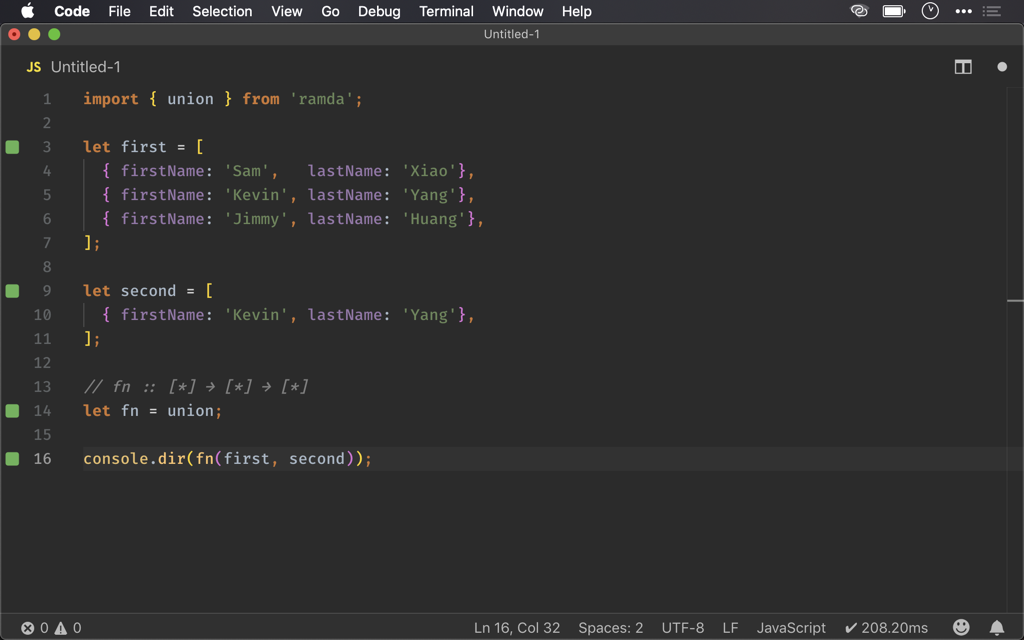
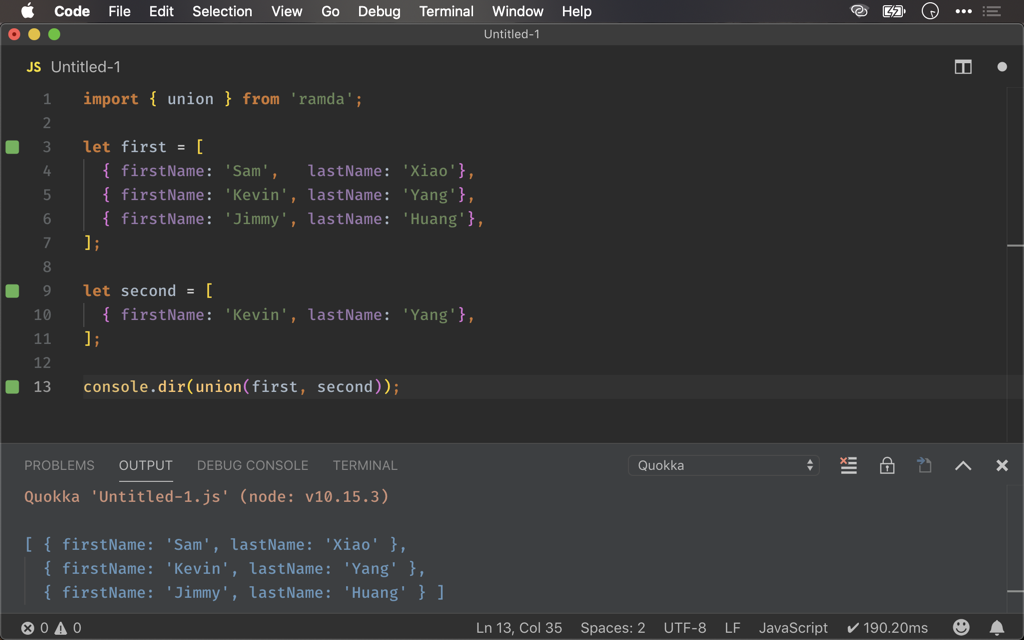
Ramda 之 union()

diff --git a/source/_posts/ramda/union.md b/source/_posts/ramda/union.md
@@ -29,10 +29,7 @@ let second = [5, 3, 7];
 // union :: [*] → [*] → [*]
 let union = pipe(concat, uniq);
 
-// fn :: [*] → [*] → [*]
-let fn = union;
-
-console.log(fn(first, second));
+console.log(union(first, second));
 ```
 
 根據 `union()` 原始意義：將兩個 Array 加以合併，只保留不重複部分，其實我們也可以使用 `concat()` 與 `uniq()` 組合而成。
@@ -47,10 +44,7 @@ import { union } from 'ramda';
 let first = [1, 3, 5];
 let second = [5, 3, 7];
 
-// fn :: [*] → [*] → [*]
-let fn = union;
-
-console.log(fn(first, second));
+console.log(union(first, second));
 ```
 
 Ramda 其實已經提供了 `union()`，可直接使用。
@@ -82,10 +76,7 @@ let second = [
   { firstName: 'Kevin', lastName: 'Yang'},
 ];
 
-// fn :: [*] → [*] → [*]
-let fn = union;
-
-console.dir(fn(first, second));
+console.dir(union(first, second));
 ```
 
 `union()` 也可以用在 object。
@@ -104,4 +95,3 @@ console.dir(fn(first, second));
 [Ramda](https://ramdajs.com), [pipe()](https://ramdajs.com/docs/#pipe)
 [Ramda](https://ramdajs.com), [concat()](https://ramdajs.com/docs/#concat)
 [Ramda](https://ramdajs.com), [uniq()](https://ramdajs.com/docs/#uniq)
-
